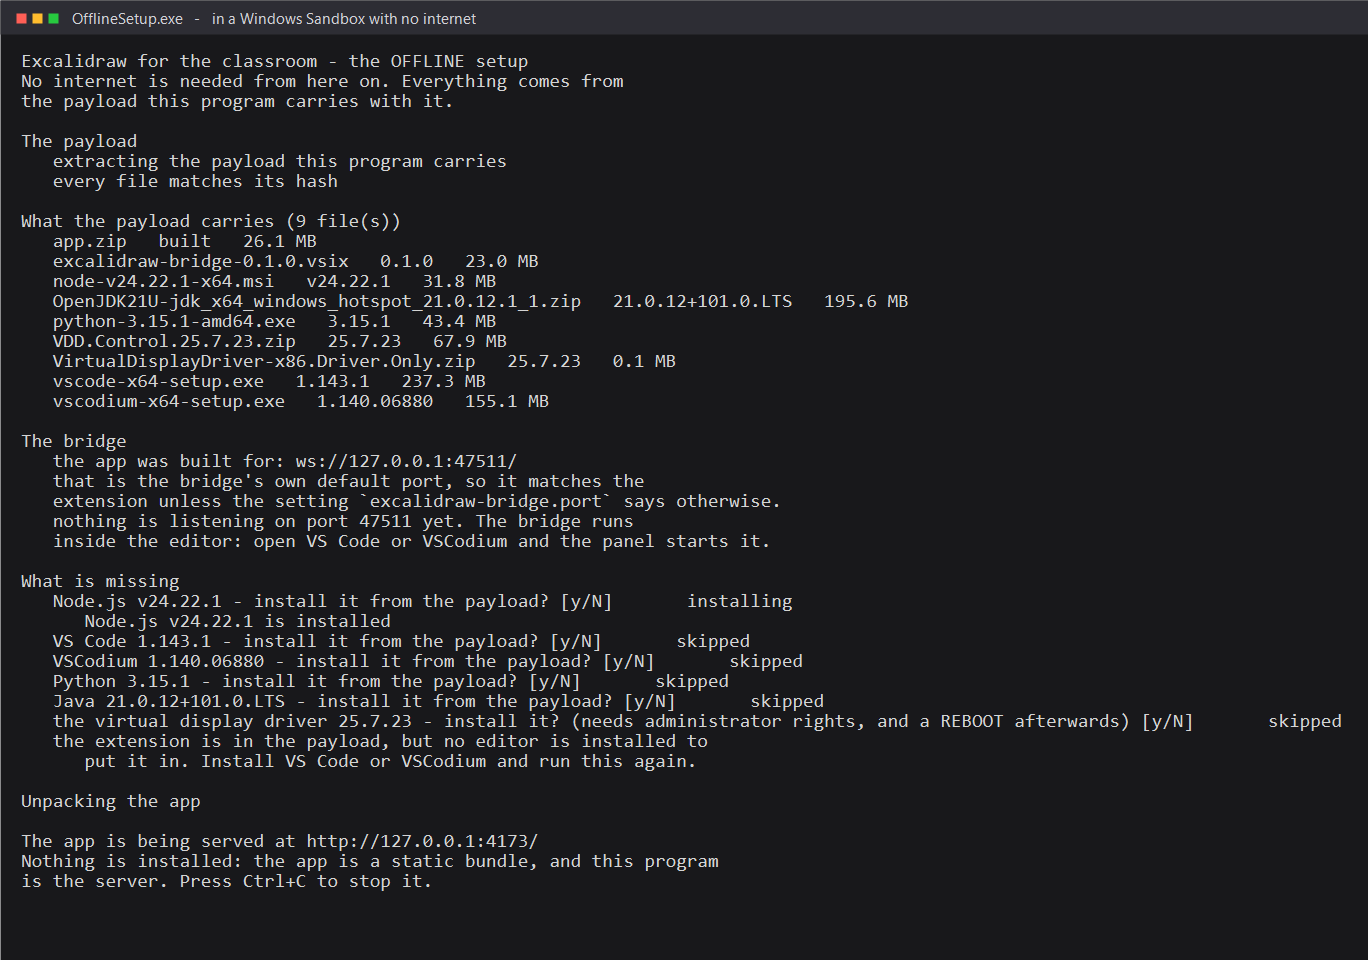
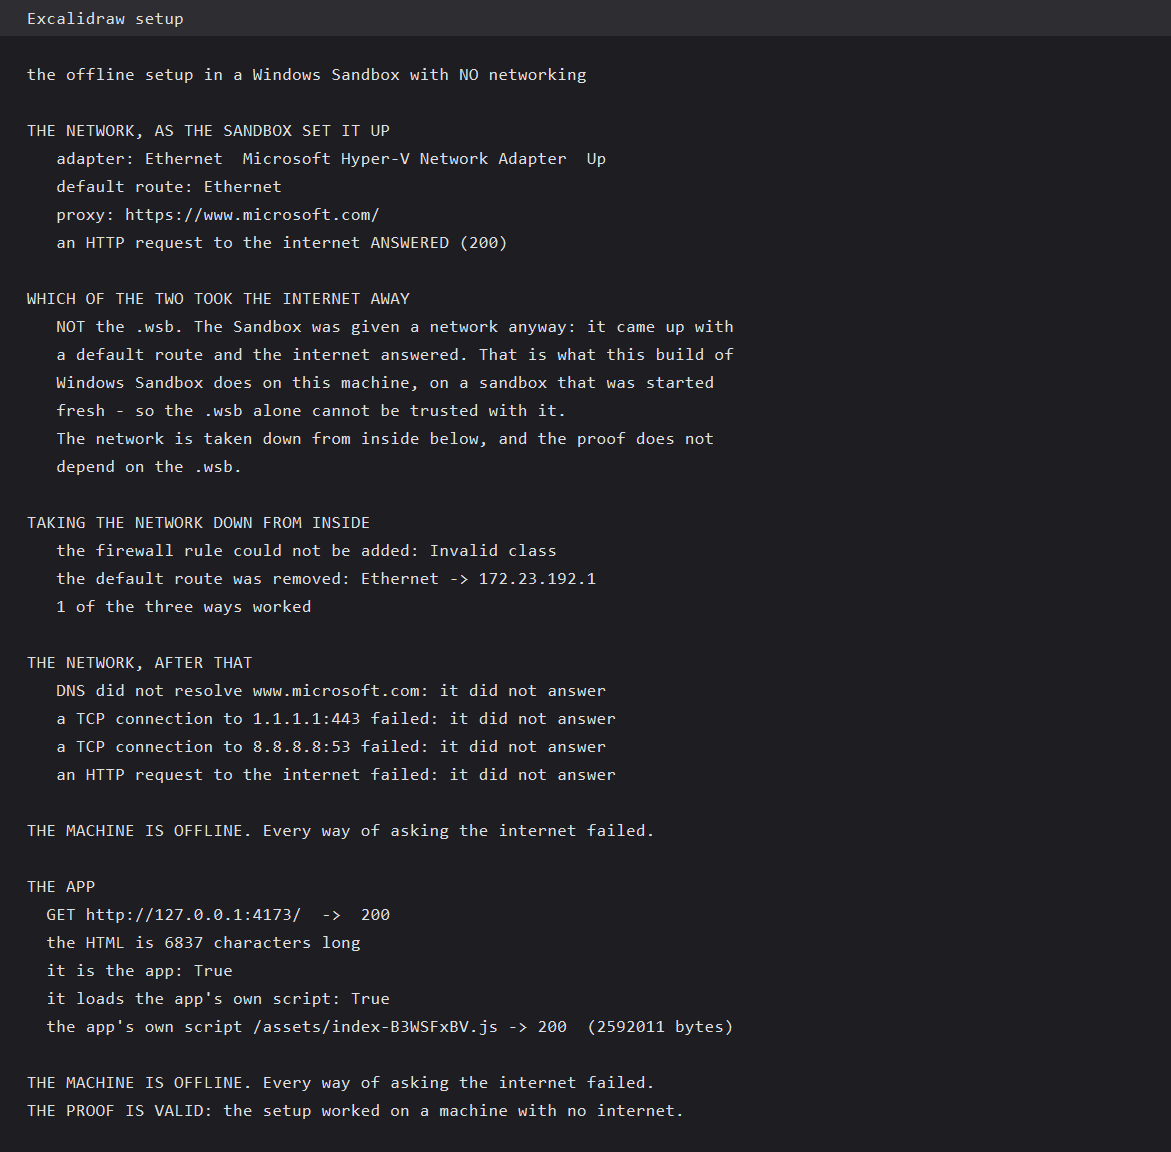
docs: the proof, as the machine said it - the honest record and the picture of it
Session: 989ae988

diff --git a/docs/OFFLINE.md b/docs/OFFLINE.md
@@ -28,8 +28,6 @@ It reports what it carries, **asks** before it installs anything, installs what 
 | `-Port <n>` | serves the app on another port (it is `4173` by default) |
 | `-PayloadRoot <dir>` | unpacks the payload somewhere else — a USB stick, or a second drive |
 
-![the offline setup reporting what it carries](images/offline-report.png)
-
 **Nothing is installed silently.** Without `-Yes` the setup asks, one question per thing, and a question that cannot be answered counts as _no_.
 
 ---
@@ -208,6 +206,41 @@ THE INTERNET, UNTOUCHED
 So `run.ps1` does not trust the setting. It **records the network as the Sandbox set it up** — the adapters, the default route, the proxy — and then says, in words, **which of the two took the internet away**: the `.wsb`, or the run itself. The `.wsb` is kept, because it is the **right** setting; nothing rests on it.
 
 Then the network is taken down from inside, by **three separate means** — an outbound firewall rule where the Sandbox has one, the **default route removed**, and the **adapter disabled** — and the record says **how many of them worked**, because one of them failed on that machine. After that the machine is **probed three ways**: a DNS lookup, a raw TCP connection to a public address, and an HTTP request. If any of them answers, the run says the proof is **not valid** — and the setup is not run at all.
+
+This is a real run, on a fresh sandbox, and it is what the machine said:
+
+```
+THE NETWORK, AS THE SANDBOX SET IT UP
+   adapter: Ethernet  Microsoft Hyper-V Network Adapter  Up
+   default route: Ethernet
+   an HTTP request to the internet ANSWERED (200)
+
+WHICH OF THE TWO TOOK THE INTERNET AWAY
+   NOT the .wsb. The Sandbox was given a network anyway: it came up with
+   a default route and the internet answered.
+
+TAKING THE NETWORK DOWN FROM INSIDE
+   the firewall rule could not be added: Invalid class
+   the default route was removed: Ethernet -> 172.23.192.1
+   1 of the three ways worked
+
+THE NETWORK, AFTER THAT
+   DNS did not resolve www.microsoft.com: it did not answer
+   a TCP connection to 1.1.1.1:443 failed: it did not answer
+   a TCP connection to 8.8.8.8:53 failed: it did not answer
+   an HTTP request to the internet failed: it did not answer
+
+THE MACHINE IS OFFLINE. Every way of asking the internet failed.
+
+THE APP
+  GET http://127.0.0.1:4173/  ->  200
+  it is the app: True
+  the app's own script /assets/index-B3WSFxBV.js -> 200  (2592011 bytes)
+
+THE PROOF IS VALID: the setup worked on a machine with no internet.
+```
+
+![the proof, as the machine said it](images/offline-report.png)
 
 ### What cannot be proved in a Sandbox
 
